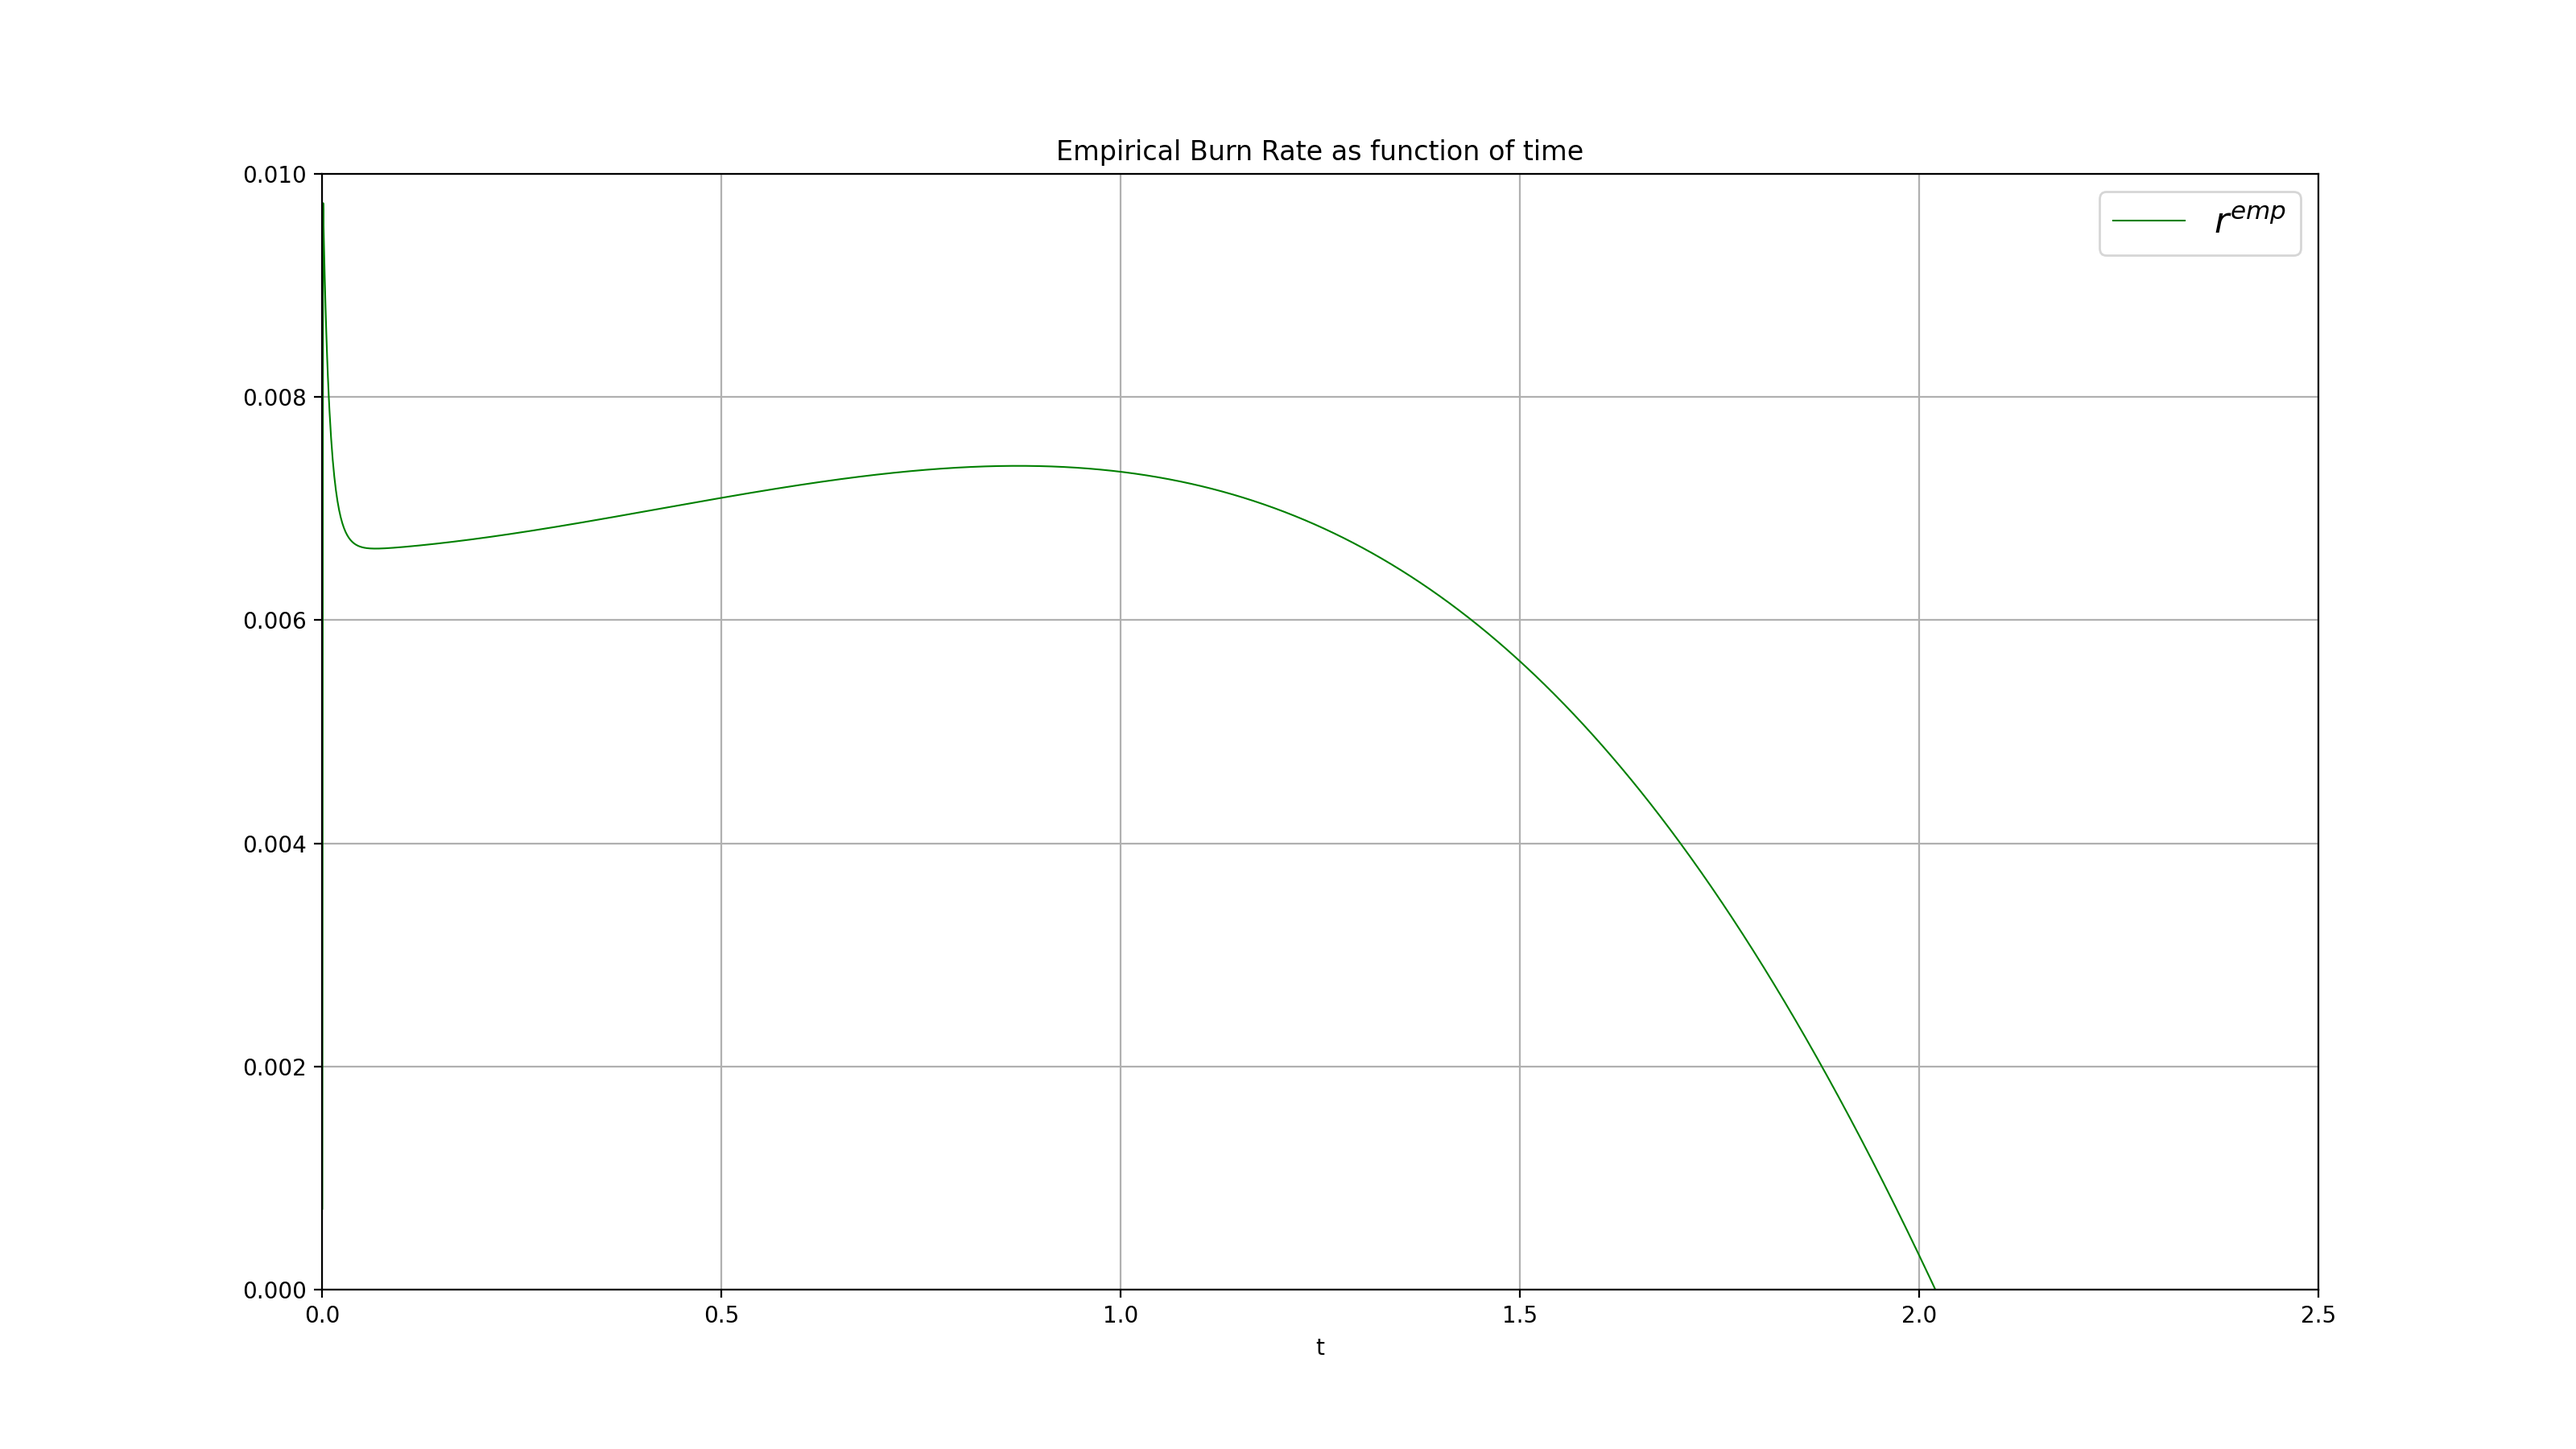
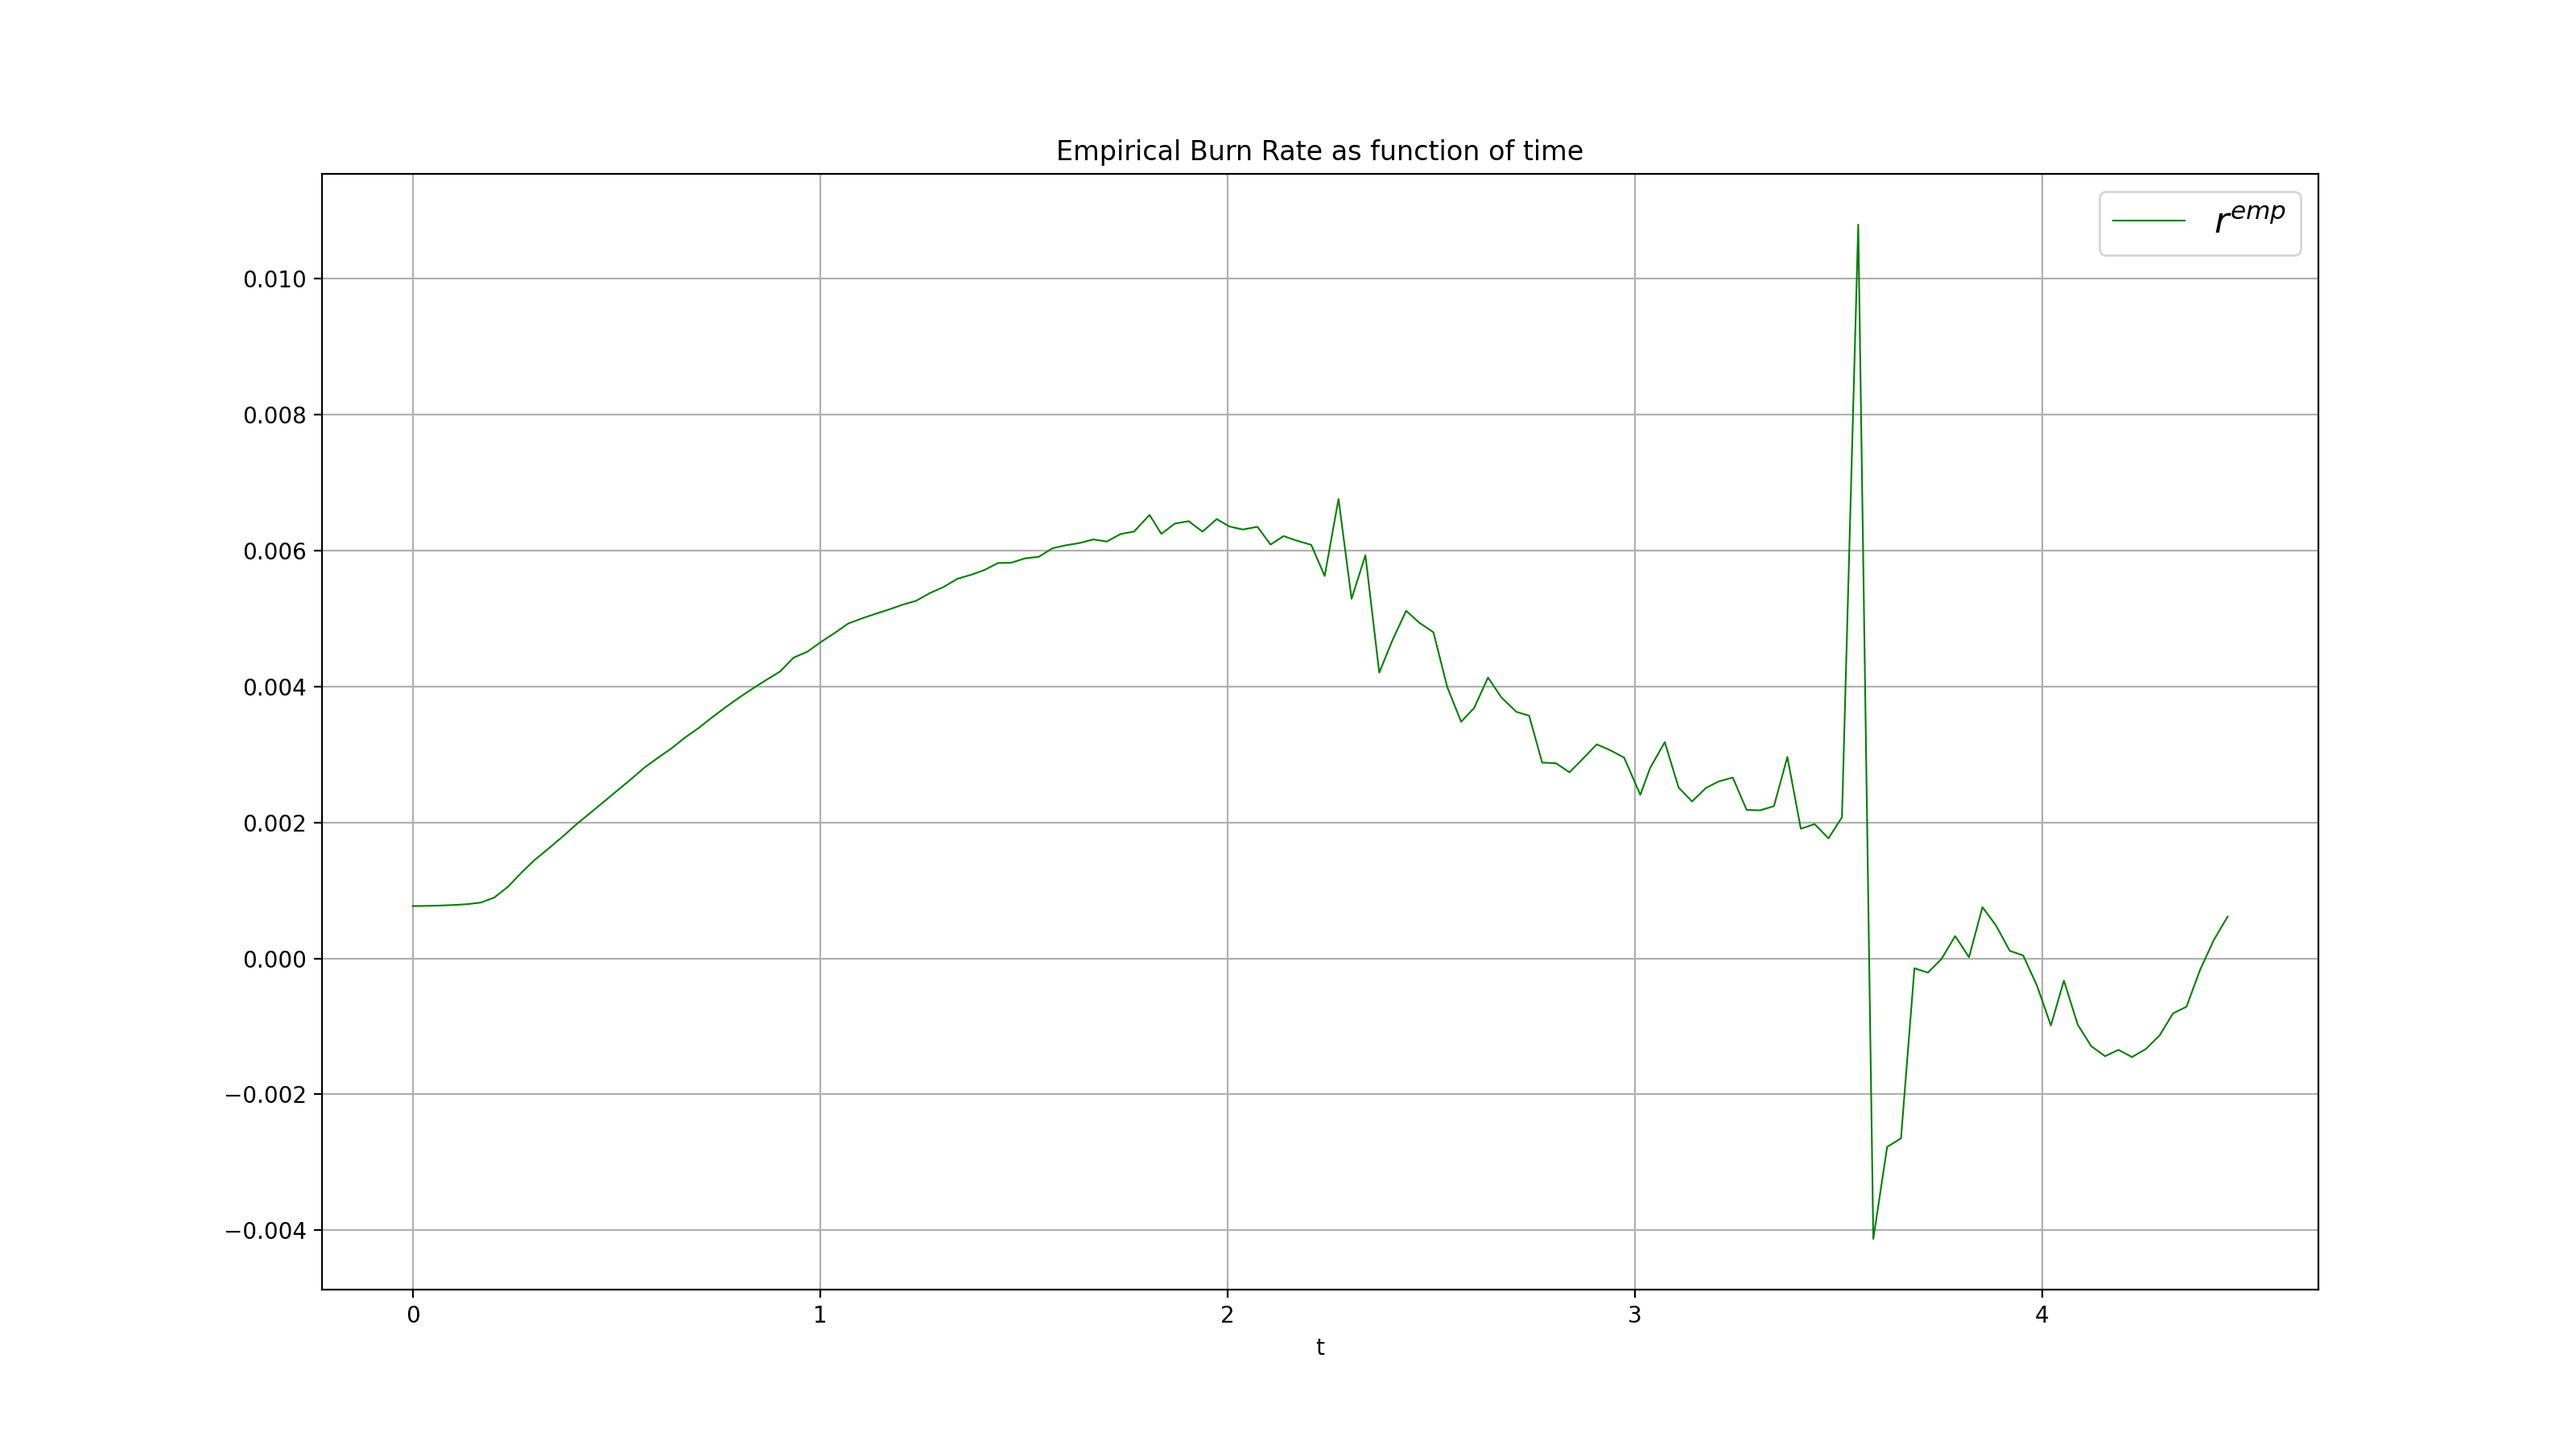
refactor: Exception handling for lack of empirical data.\n

diff --git a/solidpy/Burn.py b/solidpy/Burn.py
@@ -115,6 +115,10 @@ class Burn:
         )
         return self.thrust
 
+    def evaluate_total_impulse(self, thrust_list, time_list):
+        total_impulse = cumtrapz(thrust_list, time_list)[-1]
+        return total_impulse
+
     # needs throughout revision, maybe better approach is integration scipy_cumtrapz
     def evaluate_specific_impulse(self, chamber_pressure_list, thrust_list):
         self.specific_impulse_list = []
@@ -126,7 +130,7 @@ class Burn:
         return specific_impulse
 
     def evaluate_specific_impulse2(self, thrust_list, time_list):
-        specific_impulse = cumtrapz(thrust_list, time_list)[-1] / (
+        specific_impulse = self.evaluate_total_impulse(thrust_list, time_list) / (
             self.grain.mass * self.motor.grain_number * self.gravity
         )
         return specific_impulse
@@ -267,7 +271,7 @@ class BurnEmpirical(Burn):
         T_0, R, _, k, A_t = self.parameters
         chamber_pressure_list = []
 
-        if self.empirical_thrust is not None:
+        try:
             for thrust in self.empirical_thrust:
                 current_chamber_pressure = (
                     thrust + self.motor.nozzle_exit_area * self.environment_pressure
@@ -286,13 +290,14 @@ class BurnEmpirical(Burn):
 
             return chamber_pressure_list
 
-        return None
+        except AttributeError:
+            return None
 
     def evaluate_empirical_burn_rate(self):
 
         self.empirical_chamber_pressure = self.evaluate_empirical_chamber_pressure()
 
-        if self.empirical_chamber_pressure is not None:
+        try:
             burn_rate_list = []
 
             # Initial conditions
@@ -334,7 +339,8 @@ class BurnEmpirical(Burn):
 
             return burn_rate_list
 
-        return None
+        except AttributeError:
+            return None
 
 
 class BurnExport:
@@ -362,7 +368,8 @@ class BurnExport:
             )
         return None, None, None, None
 
-    def evaluate_max_list(self, list, time_list):
+    @staticmethod
+    def evaluate_max_list(list, time_list):
         max_index = np.argmax(list)
         max_value = list[max_index]
         time_of_max = time_list[max_index]
@@ -428,7 +435,7 @@ class BurnExport:
             for data_variables in self.simulation_data[1:]:
                 max_variable_list.append(self.evaluate_max_list(data_variables, time))
 
-            if self.BurnEmpirical:
+            try:
                 max_variable_list += [
                     self.evaluate_max_list(
                         self.BurnEmpirical.empirical_thrust,
@@ -439,7 +446,7 @@ class BurnExport:
                         self.BurnEmpirical.empirical_time_steps,
                     ),
                 ]
-            else:
+            except AttributeError:
                 max_variable_list += [None, None]
 
             return max_variable_list
@@ -455,17 +462,26 @@ class BurnExport:
             self.max_empirical_chamber_pressure,
         ) = evaluate_max_variables_list()
 
+        self.total_impulse = self.BurnSimulation.evaluate_total_impulse(
+            thrust, time
+        )
+         
         self.specific_impulse = self.BurnSimulation.evaluate_specific_impulse2(
             thrust, time
         )
-        self.empirical_specific_impulse = (
-            self.BurnSimulation.evaluate_specific_impulse2(
+        
+        try:
+            self.empirical_total_impulse = self.BurnSimulation.evaluate_total_impulse(
+            self.BurnEmpirical.empirical_thrust,
+            self.BurnEmpirical.empirical_time_steps,
+        )
+            self.empirical_specific_impulse = self.BurnSimulation.evaluate_specific_impulse2(
                 self.BurnEmpirical.empirical_thrust,
                 self.BurnEmpirical.empirical_time_steps,
-            )
-            if self.BurnEmpirical
-            else None
         )
+
+        except AttributeError:
+            self.empirical_total_impulse, self.empirical_specific_impulse = None, None
 
         return None
 
@@ -553,7 +569,7 @@ class BurnExport:
         title("Total Burn Chamber Pressure as function of time")
         savefig("data/burn_simulation/graphs/total_burn_chamber_pressure.png", dpi=200)
 
-        if self.BurnEmpirical:
+        try:
             figure(6, figsize=(16, 9))
             xlabel("t")
             grid(True)
@@ -584,22 +600,23 @@ class BurnExport:
                 "data/burn_simulation/graphs/empirical_chamber_pressure.png", dpi=200
             )
 
-            # figure(10, figsize=(16, 9))
-            # xlabel("t")
-            # grid(True)
-            # plot(
-            #     self.BurnEmpirical.empirical_time_steps[:-1],
-            #     self.empirical_burn_rate,
-            #     "g",
-            #     linewidth=0.75,
-            #     label=r"$r^{emp}$",
-            # )
-            # plt.xlim([0, 2.5])
-            # plt.ylim([0, 1e-2])
-            # legend(prop=FontProperties(size=16))
-            # title("Empirical Burn Rate as function of time")
-            # savefig("data/burn_simulation/graphs/empirical_burn_rate.png", dpi=200)
+            figure(10, figsize=(16, 9))
+            xlabel("t")
+            grid(True)
+            plot(
+                self.BurnEmpirical.empirical_time_steps[:-1],
+                self.empirical_burn_rate,
+                "g",
+                linewidth=0.75,
+                label=r"$r^{emp}$",
+            )
+            legend(prop=FontProperties(size=16))
+            title("Empirical Burn Rate as function of time")
+            savefig("data/burn_simulation/graphs/empirical_burn_rate.png", dpi=200)
 
+        except AttributeError:
+            print(">>> Empirical data not found, empirical plots were not updated.\n")
+        
         return None
 
 
@@ -616,7 +633,6 @@ Leviata = Motor(
     nozzle_exit_radius=44.44 / 2000,
     chamber_length=600 / 1000,
 )
-
 KNSB = Propellant(
     specific_heat_ratio=1.1361,
     density=1700,
@@ -626,12 +642,11 @@ KNSB = Propellant(
     # burn_rate_n=0.22,
     interpolation_list="data/burnrate/KNSB3.csv",
 )
-
 Ambient = Environment(101325, 1.25, -0.38390456)
 
 """Static-fire data"""
 
-data_path = "data/static_fires/leviata_raw_data-1.csv"
+data_path = "data/static_fires/leviata_final_curve.csv"
 ext_data = np.loadtxt(
     data_path,
     delimiter=",",
@@ -644,7 +659,7 @@ ext_data = np.loadtxt(
 
 Simulation = BurnSimulation(Grao_Leviata, Leviata, KNSB, Ambient)
 Empirical_Simulation = None
-# Empirical_Simulation = BurnEmpirical(Grao_Leviata, Leviata, KNSB, Ambient, ext_data)
+#Empirical_Simulation = BurnEmpirical(Grao_Leviata, Leviata, KNSB, Ambient, ext_data)
 ExportPlot = BurnExport(Simulation, Empirical_Simulation)
 
 """Desired outputs"""
@@ -659,6 +674,11 @@ print(
     "Max Chamber pressure: ",
     ExportPlot.max_chamber_pressure,
     ExportPlot.max_empirical_chamber_pressure,
+)
+print(
+    "Total impulse: ",
+    ExportPlot.total_impulse,
+    ExportPlot.empirical_total_impulse
 )
 print(
     "Specific impulse: ",

diff --git a/solidpy/test_burn.py b/solidpy/test_burn.py
@@ -31,15 +31,15 @@ class TestBurn:
 
     def test_thrust_range(self):
         for thr in self.thrust:
-            assert thr > -9.81 * 12 and thr < 1400
+            assert -9.81 * 12 < thr < 1400
 
     def test_chamber_pressure_range(self):
         for press in self.chamber_pressure:
-            assert press > 0 and press < 40e5
+            assert 0 < press < 40e5
 
     def test_exit_pressure_range(self):
         for chamber_press, exit_press in zip(self.chamber_pressure, self.exit_pressure):
-            assert exit_press > 0 and exit_press < chamber_press
+            assert 0 < exit_press < chamber_press
 
     def test_exit_velocity_range(self):
         for exit_vel in self.exit_velocity:
@@ -47,10 +47,7 @@ class TestBurn:
 
     def test_free_volume(self):
         for free_vol in self.free_volume:
-            assert (
-                free_vol > 0
-                and free_vol < Leviata.chamber_volume
-            )
+            assert 0 < free_vol < Leviata.chamber_volume
 
     def test_regressed_length(self):
         for regressed_len in self.regressed_length:
@@ -64,10 +61,9 @@ class TestBurn:
     """Test burn methods"""
     
     def test_nozzle_mass_flow(self):
-        simulation_burn = BurnSimulation(Grao_Leviata, Leviata, KNSB, Ambient)
         assert simulation_burn.evaluate_nozzle_mass_flow(0) == 0.0
 
-    
+
 """Rocket definitions"""
 
 Grao_Leviata = Grain(
@@ -93,6 +89,8 @@ KNSB = Propellant(
 )
 
 Ambient = Environment(101325, 1.25, -0.38390456)
+
+simulation_burn = BurnSimulation(Grao_Leviata, Leviata, KNSB, Ambient)
 
 """Static-fire data"""
 data_path = "data/static_fires/leviata_raw_data-1.csv"

diff --git a/solidpy/Rail.py b/solidpy/Rail.py
@@ -63,7 +63,7 @@ class RailMovement:
 
         vector_state = [
             velocity,
-            (thrust(time) - k_drag * velocity**2) / (rocket_mass)
+            (thrust(time) - k_drag * velocity**2) / rocket_mass
             - gravity * np.sin(rail_angle),
         ]
 
@@ -98,7 +98,7 @@ class RailMovement:
         time_method = self.time_method
         time_span = self.time_span
 
-        # ought to find a more ellegant way
+        # ought to find a more elegant way
         if time_method == "M":
             return ext_time_list
         elif time_method[:2] == "ES":

diff --git a/solidpy/Propellant.py b/solidpy/Propellant.py
@@ -56,7 +56,8 @@ class Propellant:
 
         else:
             raise TypeError(
-                "Missing arguments. You must pass either an `interpolation_list` path or scalar ballistic coefficients `burn_rate_a` and `burn_rate_n` arguments to Propellant class"
+                "Missing arguments. You must pass either an `interpolation_list` path or scalar ballistic "
+                "coefficients `burn_rate_a` and `burn_rate_n` arguments to Propellant class "
             )
 
     def calc_cstar(self):
